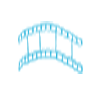
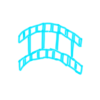
refeito os icones do menu

Changed region(s): [[0.18, 0.21, 0.84, 0.75]]

diff --git a/style_large.css b/style_large.css
@@ -104,7 +104,7 @@ body {
 }
 
 .direita h1 {
-    width: 900px !important;
+    margin-left: 320px;
 }
 
 #corpo p {
